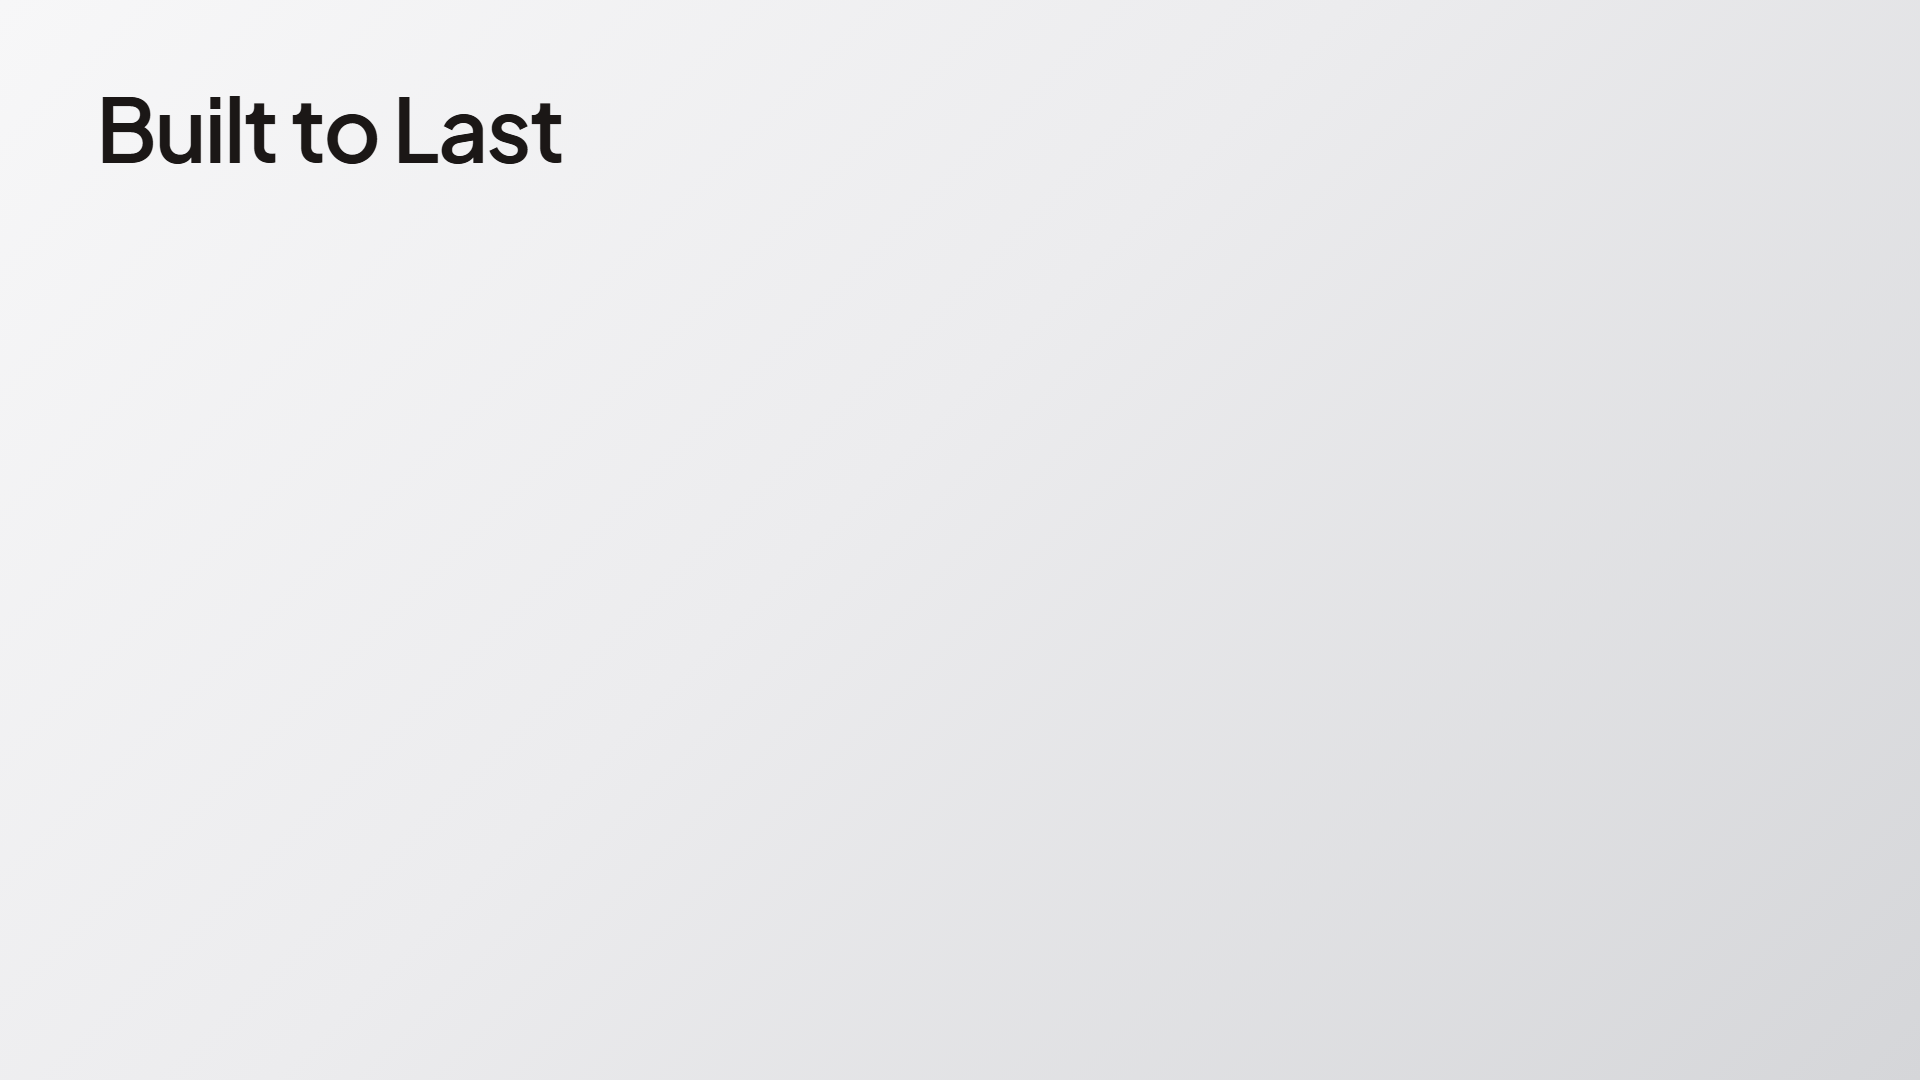
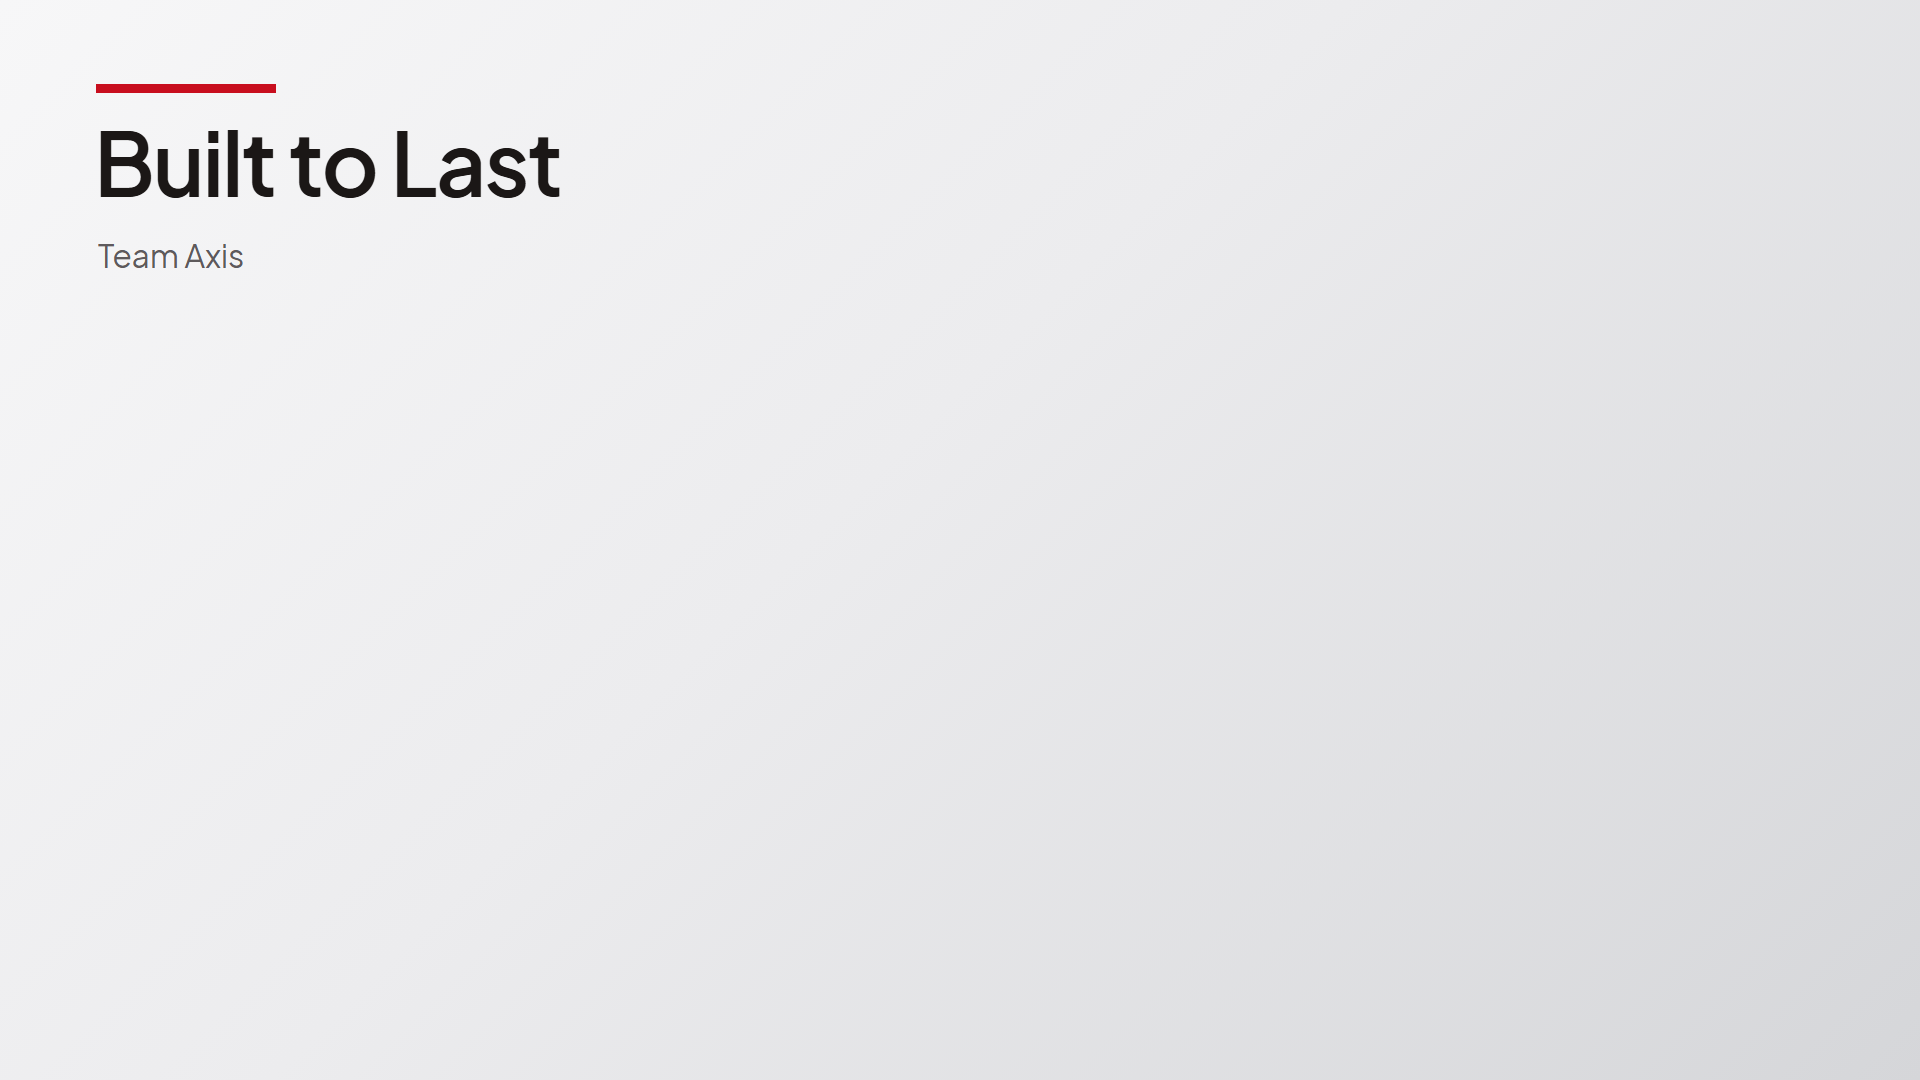
Zoom background: the cover's crimson rule and a Team Axis line

Changed region(s): [[0.0312, 0.0611, 0.3125, 0.1833], [0.0625, 0.2139, 0.125, 0.2444]]

diff --git a/round2/zoom/background.html b/round2/zoom/background.html
@@ -1,12 +1,19 @@
 <!DOCTYPE html>
 <!-- Team Axis, Zoom virtual background for the Round Two recording. 1920 x 1080, rendered by Chrome to
-     Axis_Zoom_Background.png. 25 Oct (Pete): simple, "Built to Last" alone on a soft grey gradient. The wordmark sits top
-     left, clear of the head and shoulders in the middle; the light ground helps Zoom separate the speaker. No university
-     name, logo or campus (CLAUDE.md). -->
+     Axis_Zoom_Background.png. 25 Oct (Pete): simple, on a soft grey gradient: the cover's crimson rule, "Built to Last"
+     and a "Team Axis" line, top left, clear of the head and shoulders in the middle; the light ground helps Zoom separate
+     the speaker. No university name, logo or campus (CLAUDE.md). -->
 <html><head><meta charset="utf-8"><style>
+@font-face{font-family:"PJS";src:url("../fonts/PlusJakartaSans-Regular.ttf");font-weight:400}
 @font-face{font-family:"PJS";src:url("../fonts/PlusJakartaSans-SemiBold.ttf");font-weight:600}
 html,body{margin:0;padding:0}
 .bg{position:relative;width:1920px;height:1080px;overflow:hidden;font-family:"PJS",Arial,sans-serif;
   background:linear-gradient(135deg,#F7F7F8 0%,#ECECEE 45%,#D5D6D9 100%)}
-.mark{position:absolute;left:96px;top:84px;font-weight:600;font-size:88px;line-height:1;letter-spacing:-2px;color:#1B1716}
-</style></head><body><div class="bg"><div class="mark">Built to Last</div></div></body></html>
+.rule{position:absolute;left:96px;top:84px;width:180px;height:9px;background:#C80E1E}
+.mark{position:absolute;left:94px;top:118px;font-weight:600;font-size:88px;line-height:1;letter-spacing:-2px;color:#1B1716}
+.team{position:absolute;left:98px;top:236px;font-weight:400;font-size:32px;line-height:1.2;color:#5E5A5C}
+</style></head><body><div class="bg">
+<div class="rule"></div>
+<div class="mark">Built to Last</div>
+<div class="team">Team Axis</div>
+</div></body></html>
